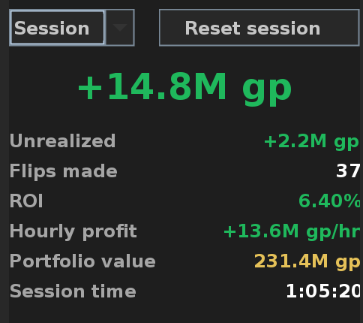
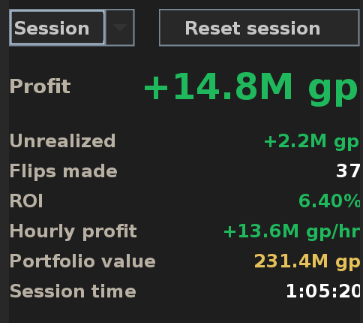
Name the profit, and list the flips that just closed
Two notes from the panel sitting next to Flipping Copilot's.

The headline was a bare green figure floating above six labelled rows —
the one number the whole panel exists for was the only one with no word
attached to it, a few pixels from a card that says "sale value" and a
row that says "Unrealized". It says "Profit" now, laid out caption-left
and number-right like the rows beneath it so the headline reads as the
top of that list. Row captions go bold and a shade brighter for the same
reason: labels you have to hunt for are labels you re-read.

The history section was a count and a link. It now also lists the last
five flips — what sold, how many, what it made after tax — because "did
that actually book?" is asked in the seconds after a sell fills, at the
Exchange, where opening a browser is not an answer. Hover gives the buy
and sell prices, the tax, and how long the gold was tied up; click opens
the chart.

Not paginated, which is the part worth explaining since the obvious
reference is. Page arrows and a "Page 1 of 1" counter are a lot of
furniture for a 225px column, and paging is browsing — which the link
already does better than a sidebar can, with sorting, charts, profit per
slot-hour and a ledger thousands of rows deep. This is the tail of the
ledger, not a view onto it: fixed length, no controls.

Rows report their preferred width as zero. BoxLayout takes a container's
preferred width from its widest child, so "18,000 × Sapphire necklace"
[…]

Changed region(s): [[0.0303, 0.2167, 0.8182, 0.3406], [0.8485, 0.2477, 1.0, 0.3406]]

diff --git a/src/main/java/com/pocketge/tracker/HistoryPanel.java b/src/main/java/com/pocketge/tracker/HistoryPanel.java
@@ -1,35 +1,72 @@
 package com.pocketge.tracker;
 
 import java.awt.BorderLayout;
+import java.awt.Color;
 import java.awt.Cursor;
+import java.awt.Dimension;
+import java.awt.Font;
 import java.awt.event.MouseAdapter;
 import java.awt.event.MouseEvent;
 import java.util.List;
 import javax.swing.BorderFactory;
+import javax.swing.BoxLayout;
 import javax.swing.JLabel;
 import javax.swing.JPanel;
 import javax.swing.SwingConstants;
 import net.runelite.client.ui.ColorScheme;
 import net.runelite.client.util.LinkBrowser;
+import net.runelite.client.util.QuantityFormatter;
 
 /**
- * Flip history is a reporting feature, not something worth a scrolling,
- * paginated list eating space in a narrow sidebar — this just shows how many
- * flips are on record and links out to the full history on pocketge.com.
+ * The last few closed flips, and a link to all of them on pocketge.com.
+ *
+ * The two halves do different jobs, which is why both exist. The rows answer
+ * "did that actually book, and for how much?" — a question you ask in the
+ * seconds after a sell fills, standing at the Exchange, where opening a
+ * browser is not a reasonable answer. The link answers "how am I doing?" —
+ * sorting, charting, gp per slot-hour, a ledger thousands of rows deep, none
+ * of which fits in a 225px column.
+ *
+ * Deliberately NOT paginated. Page arrows and a "Page 1 of 1" counter are a
+ * lot of furniture for a column this narrow, and paging is browsing, which is
+ * the thing the link is for. This is the tail of the ledger, not a view onto
+ * it, so it has a fixed small length and no controls.
  */
 public class HistoryPanel extends JPanel
 {
-	private final JLabel countLabel = new JLabel();
+	/** How many recent flips get a row. Enough to cover a burst of fills
+	 *  without the section growing past the watchlist beneath it. */
+	private static final int RECENT = 5;
 
-	public HistoryPanel()
+	private static final Color POSITIVE = new Color(0x1F, 0xB8, 0x5C);
+	private static final Color NEGATIVE = new Color(0xEF, 0x53, 0x50);
+	private static final Color ROW_TEXT = new Color(0xD9, 0xD3, 0xC7);
+
+	public interface Actions
 	{
-		setLayout(new BorderLayout(0, 2));
+		/** Routed through the plugin rather than opening a URL here, so every
+		 *  chart in the sidebar reuses the same tab — see
+		 *  AdvisorPanel.Actions.openChart. */
+		void openChart(String itemName);
+	}
+
+	private final JLabel countLabel = new JLabel();
+	private final JPanel rows = new JPanel();
+	private final Actions actions;
+
+	public HistoryPanel(Actions actions)
+	{
+		this.actions = actions;
+		setLayout(new BorderLayout(0, 4));
 		setOpaque(false);
 		setBorder(BorderFactory.createEmptyBorder(8, 0, 0, 0));
 
+		JPanel header = new JPanel(new BorderLayout(0, 2));
+		header.setOpaque(false);
+
 		countLabel.setForeground(ColorScheme.LIGHT_GRAY_COLOR);
-		countLabel.setFont(countLabel.getFont().deriveFont(12f));
-		add(countLabel, BorderLayout.WEST);
+		countLabel.setFont(countLabel.getFont().deriveFont(Font.BOLD, 12f));
+		header.add(countLabel, BorderLayout.WEST);
 
 		JLabel link = new JLabel("Flip history ↗", SwingConstants.RIGHT);
 		link.setForeground(ColorScheme.LIGHT_GRAY_COLOR);
@@ -44,7 +81,12 @@ public class HistoryPanel extends JPanel
 				LinkBrowser.browse(PocketGeLinks.home("flip_history"));
 			}
 		});
-		add(link, BorderLayout.EAST);
+		header.add(link, BorderLayout.EAST);
+		add(header, BorderLayout.NORTH);
+
+		rows.setOpaque(false);
+		rows.setLayout(new BoxLayout(rows, BoxLayout.Y_AXIS));
+		add(rows, BorderLayout.CENTER);
 
 		update(List.of());
 	}
@@ -52,7 +94,118 @@ public class HistoryPanel extends JPanel
 	/** Call on the Swing EDT whenever the flip list changes. */
 	public void update(List<Flip> flips)
 	{
-		int n = flips.size();
+		final int n = flips.size();
 		countLabel.setText(n + (n == 1 ? " flip recorded" : " flips recorded"));
+
+		rows.removeAll();
+		/* Newest first. The tracker appends as flips close, so the tail of the
+		   list is the part you have not seen yet. */
+		for (int i = n - 1; i >= 0 && n - i <= RECENT; i--)
+		{
+			rows.add(row(flips.get(i)));
+		}
+		rows.revalidate();
+		rows.repaint();
+	}
+
+	private JPanel row(Flip f)
+	{
+		final JPanel p = new JPanel(new BorderLayout(10, 0))
+		{
+			@Override
+			public Dimension getPreferredSize()
+			{
+				/* Width 0, real height.
+				 *
+				 * BoxLayout takes its container's preferred width from the
+				 * widest child, so "18,000 × Sapphire necklace" next to
+				 * "-666K gp" asked for 243px inside a 217px column — which
+				 * does not clip, it widens the sidebar's scroll content and
+				 * puts a horizontal scrollbar under the whole panel. The row
+				 * is stretched to the full column width by getMaximumSize
+				 * below regardless, so it never needs to ask for any. */
+				return new Dimension(0, super.getPreferredSize().height);
+			}
+		};
+		p.setOpaque(false);
+		p.setBorder(BorderFactory.createEmptyBorder(3, 0, 0, 0));
+		p.setAlignmentX(0f);
+
+		/* Abbreviated, unlike the quantity on the offer chip — that one you
+		   type, this one you read. "18K ×" buys back about 25px of item name
+		   in a column that has none to spare, and the exact figure is a hover
+		   away. */
+		final JLabel name = new JLabel(QuantityFormatter.quantityToStackSize(f.quantity)
+			+ " × " + f.itemName);
+		name.setForeground(ROW_TEXT);
+		name.setFont(name.getFont().deriveFont(11f));
+
+		final JLabel amount = new JLabel(signed(f.profit), SwingConstants.RIGHT);
+		amount.setForeground(f.profit >= 0 ? POSITIVE : NEGATIVE);
+		amount.setFont(amount.getFont().deriveFont(Font.BOLD, 11f));
+
+		/* Name in CENTER and money in EAST, so a long item name ellipsizes
+		   and the figure beside it never does — same priority as the stat
+		   rows. The tooltip carries the full name either way. */
+		p.add(name, BorderLayout.CENTER);
+		p.add(amount, BorderLayout.EAST);
+
+		final String tip = tooltip(f);
+		name.setToolTipText(tip);
+		amount.setToolTipText(tip);
+		p.setToolTipText(tip);
+
+		p.setCursor(Cursor.getPredefinedCursor(Cursor.HAND_CURSOR));
+		p.addMouseListener(new MouseAdapter()
+		{
+			@Override
+			public void mouseClicked(MouseEvent e)
+			{
+				if (actions != null)
+				{
+					actions.openChart(f.itemName);
+				}
+			}
+		});
+		/* BoxLayout hands a component its MAXIMUM height, and a BorderLayout
+		   panel's is unbounded — without this one row would swallow the
+		   section. Width stays unbounded so the row still fills the column. */
+		p.setMaximumSize(new Dimension(Integer.MAX_VALUE, p.getPreferredSize().height));
+		return p;
+	}
+
+	private static String tooltip(Flip f)
+	{
+		final StringBuilder sb = new StringBuilder("<html>");
+		sb.append(f.itemName).append("<br>")
+			.append("Bought ").append(String.format("%,d", f.quantity))
+			.append(" at ").append(QuantityFormatter.quantityToStackSize(f.avgBuy())).append(" gp<br>")
+			.append("Sold at ").append(QuantityFormatter.quantityToStackSize(f.avgSell())).append(" gp<br>")
+			.append("Tax ").append(QuantityFormatter.quantityToStackSize(f.tax)).append(" gp<br>")
+			.append("Profit ").append(signed(f.profit)).append("<br>");
+		final long held = f.holdMillis();
+		if (held < 0)
+		{
+			/* Never "0:00:00". The plugin did not watch this stack being
+			   bought, so it does not know — and an instant fill is the most
+			   flattering thing a blank could be mistaken for. */
+			sb.append("Held — (buy time not recorded)");
+		}
+		else
+		{
+			sb.append("Held ").append(StatsHeaderPanel.formatDuration(held));
+			final long perHour = f.profitPerHour();
+			if (perHour != 0)
+			{
+				sb.append(" · ").append(signed(perHour)).append("/hr");
+			}
+		}
+		sb.append("<br><br>Click for the chart on pocketge.com");
+		return sb.toString();
+	}
+
+	private static String signed(long v)
+	{
+		return (v >= 0 ? "+" : "") + QuantityFormatter.quantityToStackSize(v) + " gp";
 	}
 }

diff --git a/src/main/java/com/pocketge/tracker/StatsHeaderPanel.java b/src/main/java/com/pocketge/tracker/StatsHeaderPanel.java
@@ -26,6 +26,11 @@ public class StatsHeaderPanel extends JPanel
 	private static final Color POSITIVE = new Color(0x1F, 0xB8, 0x5C);
 	private static final Color NEGATIVE = new Color(0xEF, 0x53, 0x50);
 	private static final Color GOLD = new Color(0xE5, 0xC1, 0x58);
+	/** Row captions. Brighter and bolder than the grey they were: a stat list
+	 *  whose labels recede is a list you have to re-read to find the line you
+	 *  wanted, and these six are read at a glance or not at all. Still a step
+	 *  down from the white values, so the numbers keep the emphasis. */
+	private static final Color CAPTION = new Color(0xB8, 0xB0, 0xA2);
 
 	public interface Actions
 	{
@@ -34,7 +39,8 @@ public class StatsHeaderPanel extends JPanel
 	}
 
 	private final JComboBox<FlipStats.Range> rangeBox = new JComboBox<>(FlipStats.Range.values());
-	private final JLabel profitLabel = new JLabel("0 gp", SwingConstants.CENTER);
+	private final JLabel profitLabel = new JLabel("0 gp", SwingConstants.RIGHT);
+	private final JLabel profitCaption = new JLabel("Profit");
 	/* GridBagLayout, not GridLayout.
 	 *
 	 * GridLayout gives EVERY cell the width of the widest one, so this grid
@@ -86,9 +92,29 @@ public class StatsHeaderPanel extends JPanel
 		top.add(resetWrap, BorderLayout.EAST);
 		add(top, BorderLayout.NORTH);
 
+		/* "Profit", beside the number instead of implied by it.
+
+		   The headline was a bare green figure floating above six labelled
+		   rows — so the one number the whole panel exists for was the only one
+		   with no word attached to it, sitting a few pixels from a card that
+		   says "sale value" and a row that says "Unrealized". An unlabelled
+		   number gets whatever label the reader supplies.
+
+		   Caption in CENTER and number in EAST, not the other way round:
+		   BorderLayout satisfies EAST's preferred width first, so a very wide
+		   "-987.7M gp" takes its space from the word "Profit" rather than
+		   clipping itself. Same priority the stat rows below use. */
+		JPanel headline = new JPanel(new BorderLayout(6, 0));
+		headline.setOpaque(false);
+		headline.setBorder(BorderFactory.createEmptyBorder(6, 0, 8, 0));
+		profitCaption.setForeground(CAPTION);
+		profitCaption.setFont(profitCaption.getFont().deriveFont(Font.BOLD, 13f));
+		profitCaption.setToolTipText("Profit after the 2% GE tax on flips closed in the selected range.");
+		headline.add(profitCaption, BorderLayout.CENTER);
+		profitLabel.setHorizontalAlignment(SwingConstants.RIGHT);
 		profitLabel.setFont(profitLabel.getFont().deriveFont(Font.BOLD, 24f));
-		profitLabel.setBorder(BorderFactory.createEmptyBorder(6, 0, 8, 0));
-		add(profitLabel, BorderLayout.CENTER);
+		headline.add(profitLabel, BorderLayout.EAST);
+		add(headline, BorderLayout.CENTER);
 
 		statGrid.setOpaque(false);
 		/* "Unrealized", not "Unrealized profit". GridBag sizes a column to the
@@ -178,8 +204,8 @@ public class StatsHeaderPanel extends JPanel
 	private void statRow(String label, JLabel valueLabel, String tooltip)
 	{
 		JLabel k = new JLabel(label);
-		k.setForeground(ColorScheme.LIGHT_GRAY_COLOR);
-		k.setFont(k.getFont().deriveFont(12f));
+		k.setForeground(CAPTION);
+		k.setFont(k.getFont().deriveFont(Font.BOLD, 12f));
 		/* The caption is the half allowed to ellipsize (see below), so it
 		   always carries its own text on hover — plus a fuller explanation
 		   where the visible label had to be abbreviated to fit. */

diff --git a/src/main/java/com/pocketge/tracker/MainPanel.java b/src/main/java/com/pocketge/tracker/MainPanel.java
@@ -184,7 +184,7 @@ public class MainPanel extends PluginPanel
 			@Override public void setSlotAdviceSkipped(int slot, boolean skipped) { actions.setSlotAdviceSkipped(slot, skipped); }
 		});
 
-		historyPanel = new HistoryPanel();
+		historyPanel = new HistoryPanel(actions::openChart);
 
 		finderPanel = new FinderPanel(itemManager, new FinderPanel.Actions()
 		{

diff --git a/README.md b/README.md
@@ -104,17 +104,29 @@ leave that one alone.
 
 ### What you actually made
 
-![The stats header: 14.8M gp for the session, with unrealized profit, flips made, ROI, hourly profit, portfolio value and session time listed beneath.](./docs/screenshots/part-stats.png)
+![The stats header: Profit +14.8M gp for the session, with unrealized profit, flips made, ROI, hourly profit, portfolio value and session time listed beneath.](./docs/screenshots/part-stats.png)
 
 A stats header across a window you choose — session, 1h, 4h, 12h, 1d, 1w, 1m
 or all time — with profit after tax, **unrealized** P&L on positions still
 open, ROI%, gp/hour, session time, and a portfolio value that counts cash,
 bank, inventory, worn gear and everything tied up in open offers.
 
+![The flip history section: five flips recorded, with the last five listed newest first — Sapphire necklace +641.2K, Adamantite bar +390.4K, Uncut diamond -397.8K in red, Nature rune +91.8K, Emerald necklace +273.6K — and a link out to the full history.](./docs/screenshots/part-history.png)
+
+Underneath, the flips that just closed — what sold, how many, and what it made
+after tax. Hover one for the buy and sell prices, the tax, and how long the
+gold was tied up; click it for the chart. The full ledger, sortable and
+charted, is a click away on pocketge.com.
+
 Flips are matched FIFO per item and booked with the real tax rule (2%, nothing
 under 50 gp, capped at 5M, bonds and the classic tools exempt). Partial fills
 count. Every closed flip is appended to a permanent on-disk ledger that is
 never trimmed, so your history is yours for as long as you keep the file.
+
+When only part of a stack was bought under the plugin's eye, it says so rather
+than averaging the two together: the P&L covers the units it watched you buy,
+and the rest is reported separately as proceeds. A number that mixes a
+measured gain with an unpriced sale is not either one.
 
 ### Something to trade when you have nothing
 
